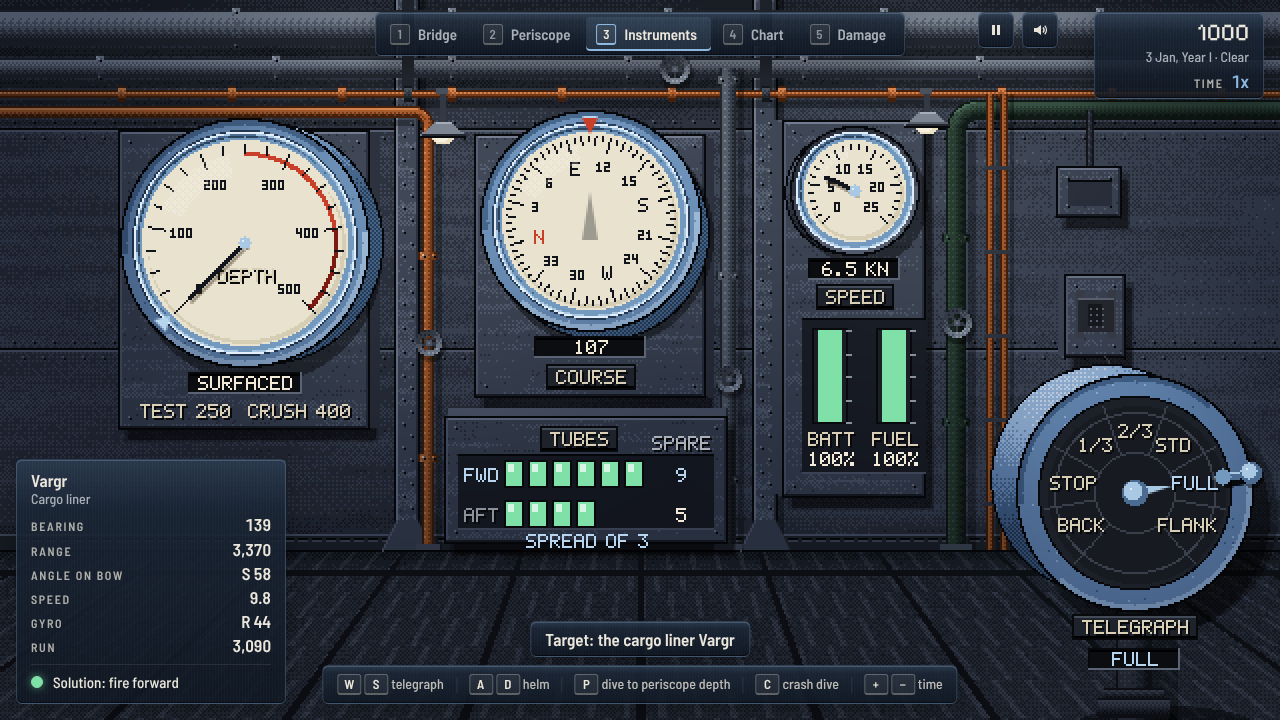
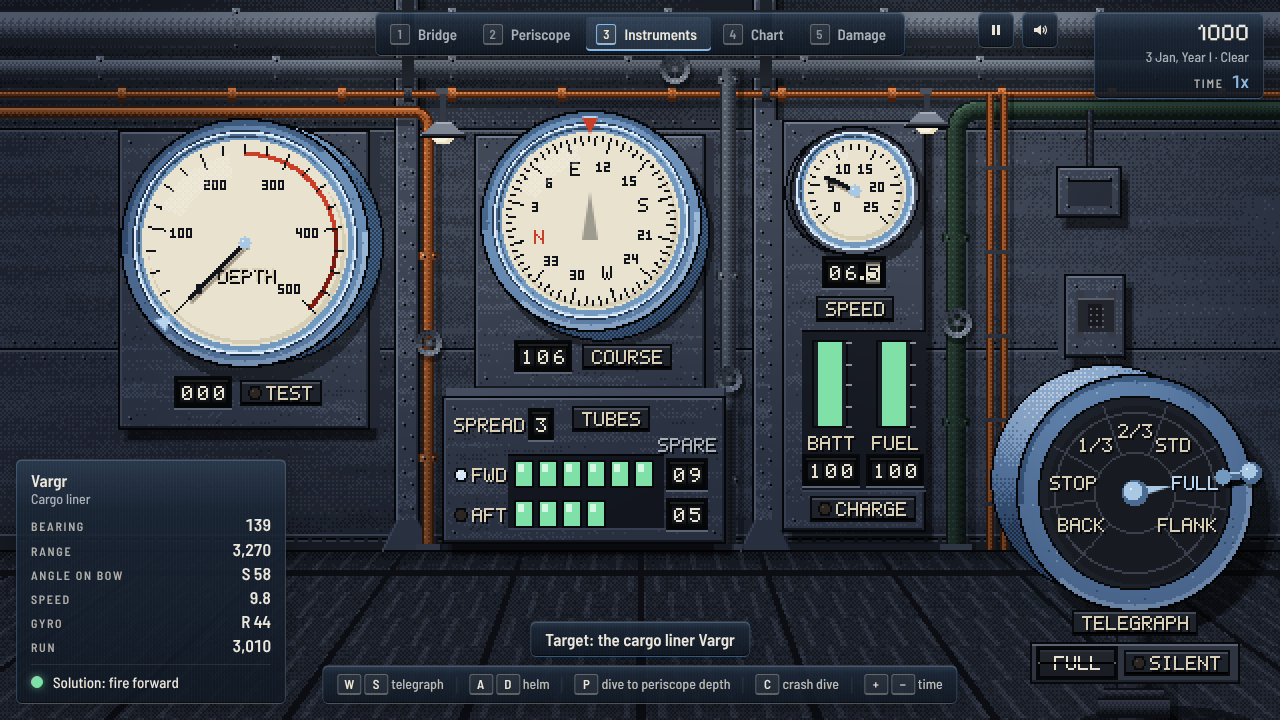
Instruments: the readings on mechanical readouts, not words in windows
The painted readings still read like a HUD and crowded the art. They are
now the boat's own mechanisms, and fewer: number wheels (odometer drums
on a detent, rolling over with every wheel that changes) for depth,
heading (359 rolls to 000), speed (tenths on a cream wheel), battery,
fuel, spares and the spread; the bell on a flip card whose upper leaf
falls over the hinge when the order changes; tell-tales, a jewel lamp
beside its engraved legend, for below test depth, silent running and
charging, and a lamp by the chosen bank. The ordered depth and course stay
the marks on the rims and the test and crush depths the arcs on the
gauge, so their words go. Rolls and flips are instant under reduced
motion. DESIGN.md follows.

Claude-Session: https://claude.ai/code/session_01DCwSH1vZb2MYArsxB4NjQu

diff --git a/js/art/panel.js b/js/art/panel.js
@@ -11,13 +11,14 @@
  * The TDC and the clock are the HUD's, as on every station (the TDC moves to
  * the left here, to give the telegraph the corner). The room is painted once
  * for its size and lit by its two lamps; the needles, the dials and the lamps
- * every frame. Everything is painted, the live figures too: they read in
- * counter windows let into the housings, lit from behind.
+ * every frame. Everything is painted, the live figures too: they read on the
+ * boat's own mechanical readouts, number wheels, a flip card and tell-tales.
  *
  * Dived, the boat is rigged for red: the white lights go out to spare the
  * battery and the red ones come on, so the steel, the faces and their paint
- * read only in red, darkest at the edges, while the tube lamps and the
- * battery and fuel bars, which light themselves, keep their colours. */
+ * read only in red, darkest at the edges, while the tube lamps, the
+ * battery and fuel bars and the tell-tales, which light themselves, keep
+ * their colours. */
 "use strict";
 (() => {
   const K = PS.K, M = K.M, C = PS.C, Sub = PS.Sub, P = PS.Panel = {};
@@ -29,7 +30,7 @@
    * its radius) stands in front, lower right. The bottom left is left clear for the HUD's TDC. EYE is where you
    * stand: the housings show the sides that face it. The depth gauge and the gyro stand out of their housings on
    * deep bezels. The legends and the live figures are all painted, in the panel's own pixel letters */
-  const L = { depth: [104, 132, 56], gyro: [292, 120, 48], log: [436, 104, 27], bars: [414, 180, 50], tubes: [222, 252], tele: [80, 268, 54], WALL: 70, DECK: 300, RIBS: [186, 382], EYE: [320, 150] };
+  const L = { depth: [104, 132, 56], gyro: [292, 120, 48], log: [436, 104, 27], bars: [414, 186, 46], tubes: [222, 252], tele: [80, 268, 54], WALL: 70, DECK: 300, RIBS: [186, 382], EYE: [320, 150] };
   /* the light the room is drawn in: toward the lamps, up, a little left, and out of the hull at you */
   const LX = -0.38, LY = -0.74, LZ = 0.56;
 
@@ -219,22 +220,22 @@
     }
     {
       const [gx, gy, gr] = L.gyro, x = PX(gx), y = PY(gy), r = Math.round(gr * u);
-      housing(g, x - r - U(14), PY(L.WALL + 4), (r + U(14)) * 2, y + r + 44 - PY(L.WALL + 4), U(5), eye, M.slate, 32);
+      housing(g, x - r - U(14), PY(L.WALL + 4), (r + U(14)) * 2, y + r + 40 - PY(L.WALL + 4), U(5), eye, M.slate, 32);
       drum(g, x, y, r + U(11), U(10), eye, BEZEL, 2); K.ring(g, x, y, r + 5, BEZEL[4]);
     }
     {
       const [lx, ly, lr] = L.log, x = PX(lx), y = PY(ly), r = Math.round(lr * u), by = PY(L.bars[1]), bh = Math.round(L.bars[2] * u);
       const cw = Math.max(U(76), 70);
-      housing(g, x - cw / 2, PY(L.WALL - 4), cw, by + bh + U(40) - PY(L.WALL - 4), U(6), eye, M.slate, 33);
+      housing(g, x - cw / 2, PY(L.WALL - 4), cw, by + bh + 52 - PY(L.WALL - 4), U(6), eye, M.slate, 33);
       drum(g, x, y, r + U(6), U(4), eye, M.slate);
       /* the bars' window, let into the cabinet (the bars and their legends are whole pixels, whatever the scale) */
       const bx = PX(L.bars[0]) - 6;
-      K.rect(g, bx, by - U(6), 62, bh + U(34), M.slate[4]); K.rect(g, bx, by - U(6), 62, 1, INK); K.rect(g, bx, by + bh + U(28) - 1, 62, 1, M.slate[1]);
+      K.rect(g, bx, by - 6, 62, bh + 39, M.slate[4]); K.rect(g, bx, by - 6, 62, 1, INK); K.rect(g, bx, by + bh + 33 - 1, 62, 1, M.slate[1]);
     }
     {
       const x = PX(L.tubes[0]), y = PY(L.tubes[1]);
-      housing(g, x - 8, y - 22, 140, Math.min(66, DK - U(4) - y + 22), U(5), eye, M.slate, 34);
-      K.rect(g, x - 2, y - 4, 128, 38, M.slate[4]); K.rect(g, x - 2, y - 4, 128, 1, INK); K.rect(g, x - 2, y + 34 - 1, 128, 1, M.slate[1]);
+      housing(g, x - 9, y - 32, 140, Math.min(76, DK - U(4) - y + 32), U(5), eye, M.slate, 34);
+      K.rect(g, x + 23, y - 4, 78, 38, M.slate[4]); K.rect(g, x + 23, y - 4, 78, 1, INK); K.rect(g, x + 23, y + 34 - 1, 78, 1, M.slate[1]);
     }
     /* ---- on the right: a junction box on the painted line's conduit, and the sound-powered telephone ---- */
     {
@@ -300,17 +301,72 @@
     K.rect(g, x0 - 1, y0 - 1, w + 2, 13, INK); K.rect(g, x0, y0, w, 11, M.slate[4]); K.rect(g, x0, y0, w, 1, M.slate[2]); K.rect(g, x0, y0 + 10, w, 1, "#000");
     label(g, s, x, y);
   };
-  /* the readings: a counter window let into the housing, its figures lit from behind, so that they keep their
-   * colours when she is rigged for red; runs is [[words, colour], ...] */
-  const LIT = { plain: "#f2ead6", steel: "#b8d5f0", green: "#7fe0a8", amber: "#f0a43c", danger: "#ff9a80" };
-  const counter = (g, lit, runs, x, y, w0 = 0) => {
-    const tw = runs.reduce((a, [t]) => a + K.text5w(t) + 1, -1), w = Math.max(w0, tw + 8), x0 = Math.round(x - w / 2);
-    K.rect(g, x0 - 1, y - 1, w + 2, 11, M.slate[1]); K.rect(g, x0 - 1, y - 1, w + 1, 1, INK); K.rect(g, x0 - 1, y - 1, 1, 10, INK);
-    K.rect(g, x0, y, w, 9, "#0b0d11"); K.rect(g, x0, y, w, 1, "#000");
-    lit.push(() => { let cx = Math.round(x - tw / 2); for (const [t, col] of runs) { K.text5(g, t, cx, y + 1, col); cx += K.text5w(t) + 1; } });
+  /* the readings are mechanical, painted like everything else, so they go red with the rest when she is
+   * rigged for red. Number wheels behind a little window: n drums, their figures painted on, rolling over as
+   * the value passes each whole number (every wheel that changes rolls with the last, as an odometer's do), held
+   * by a detent until the last part of each unit and then clicking over, so a figure is whole to read.
+   * inv: the wheel that is cream with dark figures (the tenths); dot: the wheel a decimal point stands before */
+  const CW = 7, CH = 11;
+  const wheels = (g, x, y, v, n, { mod = 10 ** n, inv = -1, dot = -1 } = {}) => {
+    const w = n * (CW + 1) + 3 + (dot >= 0 ? 3 : 0), h = CH + 4, x0 = Math.round(x - w / 2);
+    K.rect(g, x0 - 1, y - 1, w + 2, h + 2, INK); K.rect(g, x0, y, w, h, "#050608"); K.rect(g, x0 - 1, y + h, w + 2, 1, M.slate[1]);
+    const base = Math.floor(v), f = PS.clamp((v - base - 0.75) / 0.25, 0, 1), now = ((base % mod) + mod) % mod, nxt = (now + 1) % mod;
+    for (let i = 0; i < n; i++) {
+      const p = 10 ** (n - 1 - i), a = Math.floor(now / p) % 10, b = Math.floor(nxt / p) % 10, off = a !== b ? Math.round(f * CH) : 0;
+      const cx = x0 + 2 + i * (CW + 1) + (dot >= 0 && i >= dot ? 3 : 0), cy = y + 2, bg = i === inv ? FACE : "#16191e", fg = i === inv ? NEEDLE : FACE;
+      K.rect(g, cx, cy, CW, CH, bg);
+      g.save(); g.beginPath(); g.rect(cx, cy, CW, CH); g.clip();
+      K.text5(g, String(a), cx + 1, cy + 2 - off, fg); if (off) K.text5(g, String(b), cx + 1, cy + 2 - off + CH, fg);
+      g.restore();
+      /* the drum's curve, darker toward its top and its foot */
+      for (const [yy, al] of [[0, 0.65], [1, 0.3], [CH - 1, 0.65], [CH - 2, 0.3]]) K.rect(g, cx, cy + yy, CW, 1, `rgba(0,0,0,${al})`);
+      if (i === dot) K.rect(g, cx - 3, cy + CH - 4, 2, 2, FACE);
+    }
+    K.rect(g, x0 + 1, y + 1, w - 2, 1, "rgba(255,255,255,.1)");
+    return w;
   };
-  /* figures lit from behind with no window round them */
-  const glow = (lit, s, x, y, col) => lit.push(g => K.text5(g, s, Math.round(x - K.text5w(s) / 2), Math.round(y), col));
+  /* a whole number shown on wheels rolls to its new value rather than jumping (at once under reduced motion) */
+  P.roll = {};
+  const eased = (id, to) => {
+    const now = performance.now(), e = P.roll[id];
+    if (!e || PS.calm() || now - e.at > 250) P.roll[id] = { v: to, at: now };
+    else { const st = (now - e.at) / 1000 * 4; e.v = to > e.v ? Math.min(to, e.v + st) : Math.max(to, e.v - st); e.at = now; }
+    return P.roll[id].v;
+  };
+  /* a tell-tale: a jewel lamp and its engraved legend on a little plate, x its left edge; the lamp lights itself */
+  const tell = (g, lit, s, x, y, on, col) => {
+    const w = K.text5w(s) + 16, x0 = Math.round(x);
+    K.rect(g, x0 - 1, y - 1, w + 2, 13, INK); K.rect(g, x0, y, w, 11, M.slate[4]); K.rect(g, x0, y, w, 1, M.slate[2]); K.rect(g, x0, y + 10, w, 1, "#000");
+    K.disc(g, x0 + 6, y + 5, 3, 3, INK); K.disc(g, x0 + 6, y + 5, 2, 2, "#2b2622"); K.px(g, x0 + 5, y + 4, "#4a433c");
+    if (on) lit.push(() => { K.disc(g, x0 + 6, y + 5, 2, 2, col); K.px(g, x0 + 5, y + 4, "#ffffff"); });
+    K.text5(g, s, x0 + 12, y + 2, "#d9cfb6", INK);
+    return w;
+  };
+  /* the telegraph's repeat-back: a flip card with the bell on it, its upper leaf falling over the hinge when the
+   * order changes (at once under reduced motion) */
+  const FW = 37, FH = 13, HG = 6;
+  const card = s => K.get(`flip:${s}`, () => {
+    const c = K.mk(FW, FH), g = c.getContext("2d");
+    K.rect(g, 0, 0, FW, FH, "#1a1d23"); K.rect(g, 0, 0, FW, HG, "#20242b"); K.rect(g, 0, 0, FW, 1, "#2c3139");
+    K.text5(g, s, Math.round((FW - K.text5w(s)) / 2), 3, FACE);
+    return c;
+  });
+  P.flip = { s: null, from: null, at: 0 };
+  const flip = (g, s, x, y) => {
+    const now = performance.now(), x0 = Math.round(x - FW / 2);
+    if (P.flip.s !== s) P.flip = { s, from: P.flip.s, at: P.flip.s === null || PS.calm() ? -1e9 : now };
+    const t = PS.clamp((now - P.flip.at) / 220, 0, 1), cur = card(s), old = P.flip.from ? card(P.flip.from) : cur;
+    K.rect(g, x0 - 2, y - 2, FW + 4, FH + 4, INK); K.rect(g, x0 - 1, y - 1, FW + 2, FH + 2, "#050608");
+    if (t >= 1) g.drawImage(cur, x0, y);
+    else {
+      g.drawImage(cur, 0, 0, FW, HG, x0, y, FW, HG);
+      g.drawImage(old, 0, HG, FW, FH - HG, x0, y + HG, FW, FH - HG);
+      if (t < 0.5) { const fh = Math.max(1, Math.round(HG * (1 - 2 * t))); g.drawImage(old, 0, 0, FW, HG, x0, y + HG - fh, FW, fh); }
+      else { const fh = Math.max(1, Math.round((FH - HG) * (2 * t - 1))); g.drawImage(cur, 0, HG, FW, FH - HG, x0, y + HG, FW, fh); }
+    }
+    K.rect(g, x0, y + HG, FW, 1, "#000"); K.px(g, x0 - 1, y + HG, M.slate[1]); K.px(g, x0 + FW, y + HG, M.slate[1]);
+  };
+  const LAMP = { danger: "#ff6a4a", green: "#7fe0a8", steel: "#d6e8f8" };
   const fig = (g, s, x, y, col = NEEDLE) => K.text3(g, s, Math.round(x - K.text3w(s) / 2), Math.round(y - 2), col);
 
   /* rigged for red: how far the red lights are up (0 to 1), fading over 0.6s as she dives or surfaces (at once
@@ -364,10 +420,9 @@
       label(g, "DEPTH", x, y + ly); fig(g, "FT", x, y + ly + 12);
       needle(g, x, y, ang(s.depth), r - 12, NEEDLE, 2);
       glass(g, x, y, r);
-      counter(g, lit, [[Sub.surfaced(s) ? "SURFACED" : Math.round(s.depth) + " FT", s.depth > test ? LIT.danger : LIT.plain]], x, y + r + 15, 54);
-      /* the limits under it, painted; the crush depth lit in danger once the hull is hurt and it has come up */
-      if (crush < k.crush - 1) glow(lit, `CRUSH ${Math.round(crush)} DAMAGED`, x, y + r + 30, LIT.danger);
-      else label(g, `TEST ${test}  CRUSH ${Math.round(crush)}`, x, y + r + 30);
+      /* the depth in feet on its wheels, and beside them the tell-tale that lights below the test depth */
+      wheels(g, x - 21, y + r + 17, Math.max(0, s.depth), 3);
+      tell(g, lit, "TEST", x - 1, y + r + 19, s.depth > test, LAMP.danger);
     }
     /* ---- the gyro repeater: the card turns under the lubber line ---- */
     {
@@ -385,9 +440,9 @@
       K.poly(g, [[x, y - r + 1], [x - 4, y - r - 7], [x + 4, y - r - 7]], RED);
       K.poly(g, [[x, y - 14], [x - 4, y + 10], [x + 4, y + 10]], "rgba(17,20,26,.35)");
       glass(g, x, y, r);
-      const turning = Math.abs(PS.angDiff(s.hdg, s.ordHdg)) > 0.02;
-      counter(g, lit, turning ? [[PS.deg3(s.hdg), LIT.plain], [" > " + PS.deg3(s.ordHdg), LIT.steel]] : [[PS.deg3(s.hdg), LIT.plain]], x, y + r + 15, 54);
-      plate(g, "COURSE", x, y + r + 31);
+      /* the heading on its wheels, rolling through 359 to 000; the ordered course is the mark on the rim */
+      wheels(g, x - 24, y + r + 17, ((s.hdg / PS.DEG) % 360 + 360) % 360, 3, { mod: 360 });
+      plate(g, "COURSE", x + 18, y + r + 21);
     }
     /* ---- the speed log ---- */
     {
@@ -397,8 +452,9 @@
       for (let v = 0; v <= mx; v += 1) { const a = ang(v), big = v % 5 === 0; K.line(g, x + Math.cos(a) * (r - (big ? 7 : 4)), y + Math.sin(a) * (r - (big ? 7 : 4)), x + Math.cos(a) * (r - 2), y + Math.sin(a) * (r - 2), NEEDLE, 1); if (big) fig(g, String(v), x + Math.cos(a) * (r - 13), y + Math.sin(a) * (r - 13)); }
       needle(g, x, y, ang(Math.abs(s.spd)), r - 9);
       glass(g, x, y, r);
-      counter(g, lit, [[s.spd.toFixed(1) + " KN", LIT.plain]], x, y + r + 10, 44);
-      plate(g, "SPEED", x, y + r + 25);
+      /* knots and tenths on the wheels, the tenths on a cream one */
+      wheels(g, x, y + r + 9, Math.abs(s.spd) * 10, 3, { inv: 2, dot: 2 });
+      plate(g, "SPEED", x, y + r + 31);
     }
     /* ---- the telegraph: the bells round its face, the handle on the ordered one, the answer following ---- */
     {
@@ -425,8 +481,12 @@
       K.disc(g, h0x, h0y, 3.5, 3.5, BEZEL[2]);
       K.disc(g, gx + 1, gy + 2, 5, 5, "rgba(0,0,0,.45)"); K.disc(g, gx, gy, 5, 5, BEZEL[3]); K.disc(g, gx - 1, gy - 1, 3.5, 3.5, BEZEL[1]); K.px(g, gx - 2, gy - 2, BEZEL[0]);
       K.disc(g, tx, ty, 6, 6, BEZEL[3]); K.disc(g, tx - 1, ty - 1, 4, 4, BEZEL[1]); K.px(g, tx - 2, ty - 2, BEZEL[0]);
-      plate(g, "TELEGRAPH", tx, ty + tr + 12);
-      counter(g, lit, s.silent ? [[BL[s.bell], LIT.steel], [" SILENT", LIT.green]] : [[BL[s.bell], LIT.steel]], tx, ty + tr + 27, 44);
+      plate(g, "TELEGRAPH", tx, ty + tr + 10);
+      /* the repeat-back under it on the pedestal: the bell on a flip card, and the silent-running tell-tale */
+      const bw = FW + 66, bx = Math.round(tx - bw / 2), by = ty + tr + 24;
+      K.rect(g, bx - 1, by - 1, bw + 2, 21, INK); K.rect(g, bx, by, bw, 19, M.slate[3]); K.rect(g, bx, by, bw, 1, M.slate[1]); K.rect(g, bx, by + 18, bw, 1, M.slate[4]);
+      flip(g, BL[s.bell], bx + 4 + FW / 2, by + 3);
+      tell(g, lit, "SILENT", bx + FW + 10, by + 4, s.silent, LAMP.green);
     }
     /* ---- battery and fuel ---- */
     {
@@ -440,17 +500,21 @@
           if (cap < 1) { const cy2 = by + bh - Math.round(bh * cap); K.rect(g, x - 2, cy2, 20, 1, "#e8573a"); }
         });
         label(g, name, x + 8, by + bh + 5);
-        glow(lit, `${Math.round(v * 100)}%`, x + 8, by + bh + 15, v < 0.12 ? LIT.danger : v < 0.3 ? LIT.amber : LIT.plain);
+        wheels(g, x + 8, by + bh + 15, PS.clamp(v, 0, 1) * 100, 3);
       };
       bar(PX(L.bars[0]), s.bat, Sub.batCap(s), "BATT");
-      if (Sub.charge(s).rate > 0 && Sub.batCap(s) - s.bat >= 0.005) glow(lit, "CHARGING", PX(L.bars[0]) + 24, by + bh + 27, LIT.green);
+      const chg = Sub.charge(s).rate > 0 && Sub.batCap(s) - s.bat >= 0.005, cw = K.text5w("CHARGE") + 16;
+      tell(g, lit, "CHARGE", PX(L.bars[0]) + 24 - cw / 2, by + bh + 36, chg, LAMP.green);
       bar(PX(L.bars[0]) + 32, s.fuel, 1, "FUEL");
     }
     /* ---- the tube board: each tube's lamp, the spares beside each bank, the chosen bank in steel blue ---- */
     {
       const x = PX(L.tubes[0]), y = PY(L.tubes[1]);
-      plate(g, "TUBES", x + 58, y - 15);
-      label(g, "SPARE", x + 109, y - 13, "#aab0b8");
+      plate(g, "TUBES", x + 74, y - 25);
+      /* the spread on its own wheel, top left; the spares column, right */
+      K.text5(g, "SPREAD", x - 4, y - 22, "#d9cfb6", INK);
+      wheels(g, x + 39, y - 26, eased("spread", s.spread), 1);
+      label(g, "SPARE", x + 112, y - 12, "#aab0b8");
       const lamp = (lx, ly, v) => {
         K.rect(g, lx - 1, ly - 1, 10, 14, INK);
         if (v === 0) lit.push(() => { K.rect(g, lx, ly, 8, 12, "#7fe0a8"); K.rect(g, lx + 1, ly + 1, 3, 4, "#d6f5e2"); });
@@ -458,12 +522,14 @@
         else K.rect(g, lx, ly, 8, 12, "#1a1e26");
       };
       /* each bank: its name (lit steel blue when it is the one chosen), its lamps, its spares */
+      /* each bank: the lamp that says it is the one chosen, its name, its tubes, its spares */
       for (const [b, name, ly] of [["F", "FWD", y], ["A", "AFT", y + 20]]) {
-        if (s.bank === b) glow(lit, name, x + 9, ly + 3, LIT.steel); else label(g, name, x + 9, ly + 3, "#8a919b");
-        s.tubes[b].forEach((v, i) => lamp(x + 22 + i * 12, ly, v));
-        glow(lit, String(s.store[b]), x + 109, ly + 3, s.bank === b ? LIT.steel : LIT.plain);
+        K.disc(g, x - 1, ly + 6, 3, 3, INK); K.disc(g, x - 1, ly + 6, 2, 2, "#2b2622");
+        if (s.bank === b) lit.push(() => { K.disc(g, x - 1, ly + 6, 2, 2, LAMP.steel); K.px(g, x - 2, ly + 5, "#ffffff"); });
+        K.text5(g, name, x + 5, ly + 3, "#d9cfb6", INK);
+        s.tubes[b].forEach((v, i) => lamp(x + 27 + i * 12, ly, v));
+        wheels(g, x + 112, ly - 1, eased("spare" + b, s.store[b]), 2);
       }
-      if (s.spread > 1) glow(lit, `SPREAD OF ${s.spread}`, x + 62, y + 36, LIT.steel);
     }
     rigRed(g, Wd, Ht, !Sub.surfaced(s));
     /* the lamps turned down a little with the lights, to spare the battery too */

diff --git a/index.html b/index.html
@@ -68,7 +68,7 @@
 <script src="js/art/fx.js?v=fc2c92a0"></script>
 <script src="js/art/view.js?v=26c3e023"></script>
 <script src="js/art/chart.js?v=fce3a540"></script>
-<script src="js/art/panel.js?v=ba197caa"></script>
+<script src="js/art/panel.js?v=e50800bf"></script>
 <script src="js/art/damage.js?v=589edbf0"></script>
 <script src="js/store.js?v=6071420a"></script>
 <script src="js/input.js?v=1b64efbc"></script>

diff --git a/DESIGN.md b/DESIGN.md
@@ -297,7 +297,7 @@ All three are bundled in fonts/; nothing is fetched at play time.
 
 **The Tabular Readings Rule.** Every number that changes on the HUD is tabular (`font-variant-numeric: tabular-nums`) in the UI sans, so readings never jitter.
 
-**The Painted Legend Rule.** The stations' pixel art carries its own legends in its 5-by-7 and 3-by-5 pixel letters: the figures round a dial, the names on it (DEPTH, COURSE, SPEED, TELEGRAPH, the bells), the compartment names on the damage report, the chart's places and range rings. Those are short and fixed. Anything that changes (a reading, a range, a count, a state, a bearing figure that moves with the glass) and every key is the HUD's type, set over the canvas where the station puts it (the label layer, below). A painted legend never says a key. The instruments are the exception (owner's decision, 2026-10-17): every reading there is painted too, in counter windows let into the housings and lit from behind, so they keep their role colours when she is rigged for red (plain readings cream, ordered and chosen steel blue, green, amber and danger as the HUD's); the label layer carries nothing on that station.
+**The Painted Legend Rule.** The stations' pixel art carries its own legends in its 5-by-7 and 3-by-5 pixel letters: the figures round a dial, the names on it (DEPTH, COURSE, SPEED, TELEGRAPH, the bells), the compartment names on the damage report, the chart's places and range rings. Those are short and fixed. Anything that changes (a reading, a range, a count, a state, a bearing figure that moves with the glass) and every key is the HUD's type, set over the canvas where the station puts it (the label layer, below). A painted legend never says a key. The instruments are the exception (owner's decision, 2026-10-17): every reading there is painted too, as the boat's own mechanical readouts, never as words in a window: number wheels (odometer drums, the figures rolling over on a detent), the telegraph's flip card, and tell-tales (a jewel lamp beside its engraved legend, lit when the state holds). The label layer carries nothing on that station.
 
 **Alpha washes are their colour's.** A wash or edge at some opacity is its role colour's own value at that opacity (steel at 10%, 14% or 60% is `rgba(141,184,224,…)`, black lifts are `rgba(0,0,0,…)`); no near-miss hue stands in for one.
 
@@ -387,7 +387,7 @@ A station lays out its live figures as it draws, in canvas pixels with an anchor
 - **Type:** Barlow 600 with tabular figures: readings 17px (19px for a gauge's main figure, 14px for a small one), bearing-ring figures 12px, tracked 11px caps for a reading's name and for test and crush. A one-pixel dark shadow stands them off the sea or the steel.
 - **Tones:** off-white; steel blue for what is ordered or chosen (TRUE, the chosen tube bank, the gun's range); amber, danger-text and green as the HUD's; a range is off-white on a 60% night chip, above a ship's masts and just right of her middle, the nearest winning a crowded spot.
 - **The periscope's ring** reads true, like the crew's reports; TRUE at its left is where the glass looks; under it, REL that bearing off the bow and beside REL the bow dial: the boat from above, bow up, a steel-blue line where the glass looks and a steel-blue wash its field of view; the power under them. On the bridge, the glasses and the gun the ring is the same, LOOKING, GLASSES or GUN at its left, with REL and the dial under it: the swing off the bow always reads on the left, wherever you are. Under every ring, BOW, STBD, STERN and PORT where they fall on it, in the pixel face. A figure every ten degrees, every two in high power, so there is always one. The locked target is a solid steel-blue mark on the ring, the crew's last report a hollow amber one, and either is an arrow at the ring's end when it is off it.
-- **Instruments:** the control room, not dials on a flat panel. The hull's side in riveted plates between I-beam frames, curving over into the overhead, the deck plating running away to it in perspective, a louvred kick plate where they meet. Pipes run everywhere: the ventilation trunk, an air main with its gate valve and a copper line along the overhead, hung from the frames; copper bent down the first frame, an air line down the second, a painted line bent down on the right beside two copper leads, each with its flanges, collars and a handwheel. Two shaded lamps hang under the pipes and light the room (the room is painted once for its size and relit by them). Each instrument has its own housing standing off the hull, the sides that face you swept back toward where you stand and its shadow thrown down and right: the depth gauge large on the left, the gyro in a drum on its plate in the middle, the speed log over the battery and fuel in a cabinet on the right, the tube board under the gyro, a junction box and the telephone under the clock. Gauge glass carries a dithered glint. The engine telegraph stands in front of it all on its pedestal, lower right, larger than the rest and keeping to the window's corner however wide: the bells round its face from lower left over the top to lower right, the ordered one in steel blue, a pointer and the handle (out past the rim to its grip) on the order, the engine room's cream answer pointer following it round (at once under reduced motion), TELEGRAPH on a plate on its collar. The depth gauge and the gyro stand well out of their housings on deep steel-blue bezels. Fixed legends under the dials sit on little engraved plates; the readings (depth, course with the ordered course after a >, speed, the bell and silent running, the battery and fuel, charging, each bank's spares with the chosen bank's name in steel blue, the spread) are painted in lit counter windows, and the test and crush depths are painted under the depth gauge, lit in danger as CRUSH n DAMAGED once the hull is hurt. The TDC moves to the bottom left here, and the clock is the HUD's. Dived, the boat is rigged for red: the panel goes to grey under a red pool of light, darkest at the edges, fading in over 0.6s as she goes under (at once under reduced motion); the tube lamps, the battery and fuel bars and the counter windows' figures light themselves, so they keep their colours, turned down a quarter.
+- **Instruments:** the control room, not dials on a flat panel. The hull's side in riveted plates between I-beam frames, curving over into the overhead, the deck plating running away to it in perspective, a louvred kick plate where they meet. Pipes run everywhere: the ventilation trunk, an air main with its gate valve and a copper line along the overhead, hung from the frames; copper bent down the first frame, an air line down the second, a painted line bent down on the right beside two copper leads, each with its flanges, collars and a handwheel. Two shaded lamps hang under the pipes and light the room (the room is painted once for its size and relit by them). Each instrument has its own housing standing off the hull, the sides that face you swept back toward where you stand and its shadow thrown down and right: the depth gauge large on the left, the gyro in a drum on its plate in the middle, the speed log over the battery and fuel in a cabinet on the right, the tube board under the gyro, a junction box and the telephone under the clock. Gauge glass carries a dithered glint. The engine telegraph stands in front of it all on its pedestal, lower right, larger than the rest and keeping to the window's corner however wide: the bells round its face from lower left over the top to lower right, the ordered one in steel blue, a pointer and the handle (out past the rim to its grip) on the order, the engine room's cream answer pointer following it round (at once under reduced motion), TELEGRAPH on a plate on its collar. The depth gauge and the gyro stand well out of their housings on deep steel-blue bezels. Fixed legends sit on little engraved plates. The readings are mechanical and few: number wheels under the depth gauge (feet), the gyro (the heading, rolling through 359 to 000) and the speed log (knots and tenths, the tenths on a cream wheel), under the battery and fuel bars (per cent), for each bank's spares and for the spread; the bell on a flip card on the telegraph's pedestal, its upper leaf falling over the hinge when the order changes (at once under reduced motion); tell-tales for below the test depth (red), silent running and charging (green); a jewel lamp beside the chosen bank. The ordered depth and course are the steel-blue marks on the rims, the test and crush depths the red and dark-red arcs on the depth gauge. Being painted, the wheels and the card go red with the room when she is rigged for red; the lamps light themselves. The TDC moves to the bottom left here, and the clock is the HUD's. Dived, the boat is rigged for red: the panel goes to grey under a red pool of light, darkest at the edges, fading in over 0.6s as she goes under (at once under reduced motion); the tube lamps, the battery and fuel bars and the tell-tales light themselves, so they keep their colours, turned down a quarter.
 
 ### Damage report
 The boat cut away side on in the steel and iron ramps, the casing and the conning tower over her, seven compartments between bulkheads with doors. Water rises from the bilges in the water ramp, its surface moving (still under reduced motion). A compartment with a hurt system is hatched, amber damaged and red out, sparking while it is bad, and its painted name takes its colour and an underline. Under her, her depth against her test and crush depths, the crush mark moving up as the hull is hurt and the lost depth dotted. Two HUD panels below: the boat (hull and water as segment bars, the pumps, the crush depth and what it was) and the repairs (only what is hurt, the one being mended first with its minutes, each with a bar of how far along it is; "Every system sound" when nothing is).
